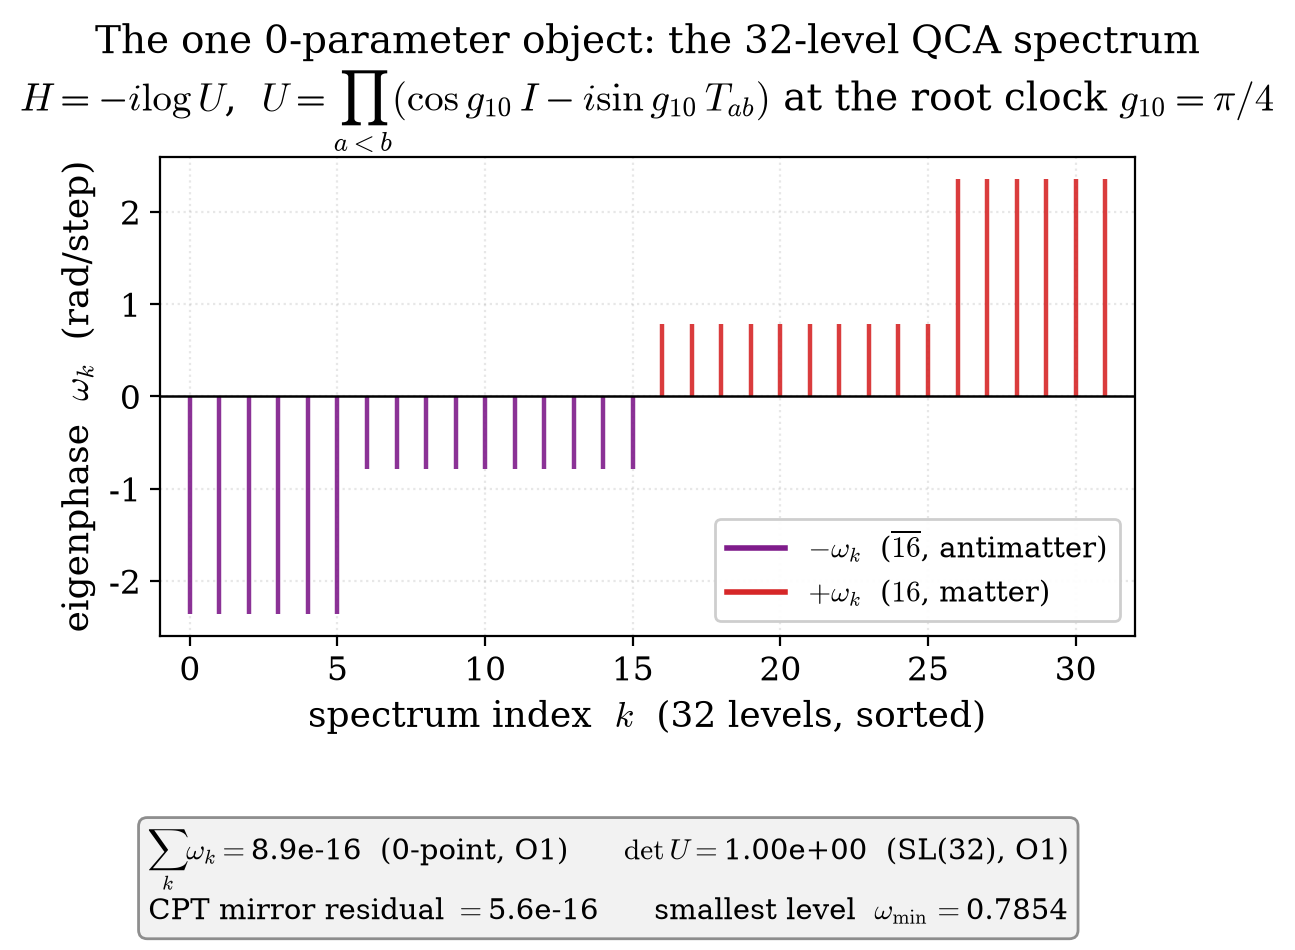
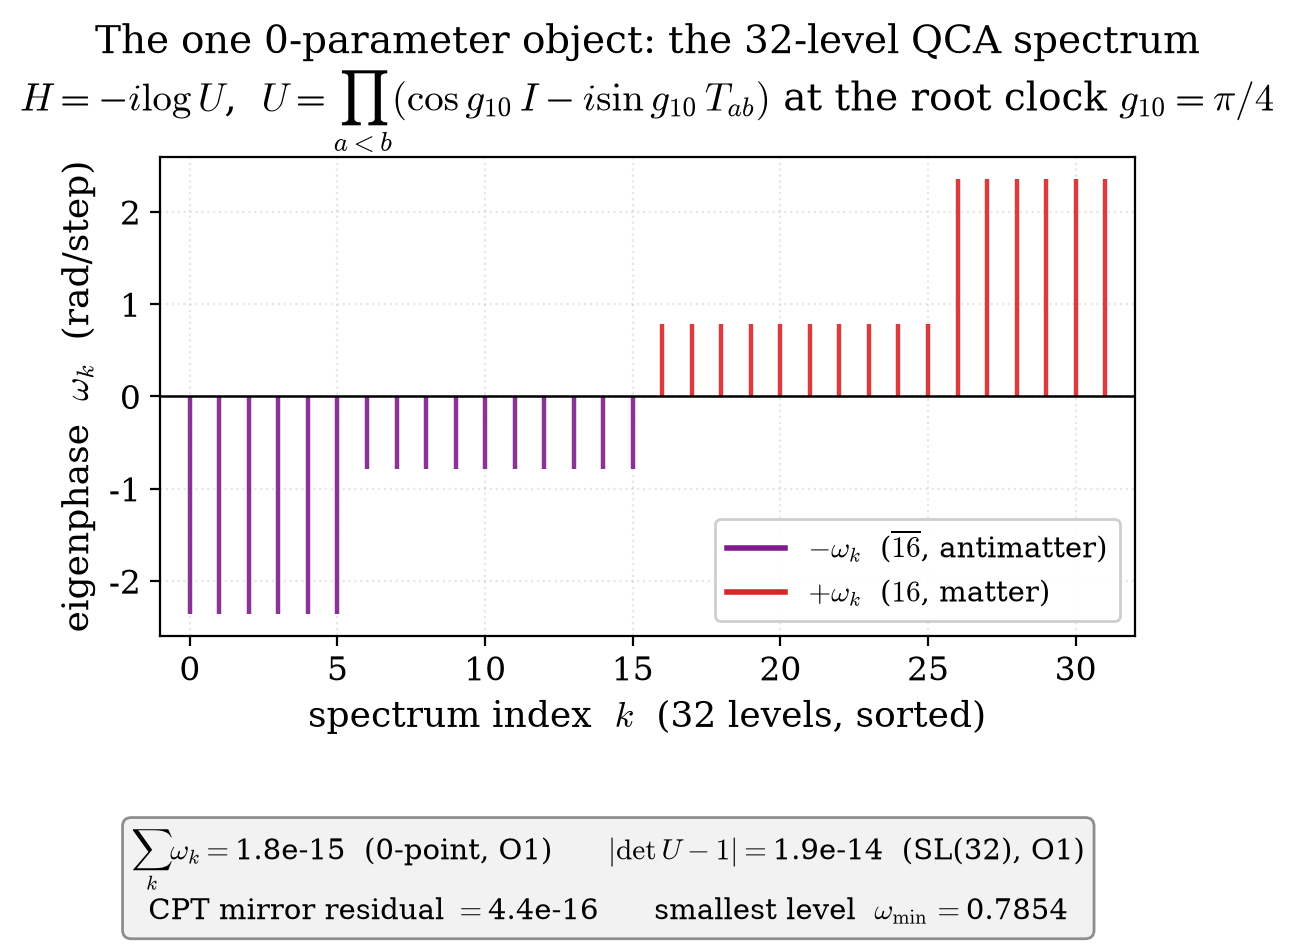
fig3 verified against the live engine; the invariants it names are now all traced
- fig3 plots qca_spectrum.levels() live: {+/-pi/4 x10, +/-3pi/4 x6}, 32 levels, pairing exact - matches the paper claims and V52/V43
- fig3 box: '|det U - 1|' now printed as the measured residual (1.9e-14) instead of 'det U = 1.00e+00', which hid it behind the formatting
- V196 gains T5: the 128-level cell matrix M(q) unitarity + det sweep at the zone centre, a generic momentum and the M and R points (max ||MM+-I|| 9.7e-15, max |detM-1| 3.8e-13, PASS, 1.1 s) - the M-matrix bounds quoted in Sec 7.1 were untraced in any artifact
- Sec 7.1 sentence aligned with the measurements: the old bounds (5e-15 / 3e-13 / '10^-15 level' for det U) were stale by an order; now 1.4e-15 unitarity, |det U - 1| = 1.9e-14, ||MM+-I|| <= 9.7e-15, |det M - 1| <= 3.8e-13

Changed region(s): [[0.4633, 0.8547, 0.8649, 0.9158], [0.0927, 0.8547, 0.4324, 1.0], [0.3707, 0.9463, 0.4324, 0.9768]]

diff --git a/experiments/algebra_root/V196_cell_definition/V196_cell_definition.py b/experiments/algebra_root/V196_cell_definition/V196_cell_definition.py
@@ -211,6 +211,31 @@ def main():
                                     vr["cell_parity_step_comm"],
                                     vr["cell_parity_gauge_max"]), t4_ok))
 
+    # ---- T5 the cell matrix M(q): unitarity and det at four momenta -----
+    _, _, U16 = SC.sectors()
+    pts = {"zone_centre": (0.0, 0.0, 0.0),
+           "generic": (0.7311, 1.9017, -2.3181),
+           "M_point": tuple(float(c) for c in SC.M_POINTS[0]),
+           "R_point": tuple(float(c) for c in SC.R_POINTS[0])}
+    sweep = {}
+    for nm, q in pts.items():
+        Mq = SC.bloch(q, U16)
+        nq = Mq.shape[0]
+        sweep[nm] = {
+            "dim": int(nq),
+            "MM_dagger_minus_I": float(np.linalg.norm(
+                Mq @ Mq.conj().T - np.eye(nq), 2)),
+            "det_M_minus_1": float(abs(np.linalg.det(Mq) - 1.0)),
+        }
+    mm_max = max(v["MM_dagger_minus_I"] for v in sweep.values())
+    dm_max = max(v["det_M_minus_1"] for v in sweep.values())
+    t5_ok = mm_max < 1e-13 and dm_max < 1e-11
+    checks.append(("T5 the %d-level cell matrix M(q) is unitary with det 1 "
+                   "at the zone centre, a generic momentum and the two "
+                   "high-symmetry points: max ||MM+-I|| %.1e, max |detM-1| "
+                   "%.1e" % (sweep["zone_centre"]["dim"], mm_max, dm_max),
+                   t5_ok))
+
     ok = all(p for _, p in checks)
     branch = ("THE 36-LEVEL CELL IS AN ENGINE FACT: spinor module + the "
               "conjugate singlet pairs at rungs 3 and 10, exact B-parity, "
@@ -229,6 +254,7 @@ def main():
         "full_cell_theorems": {"pairing": pairing, "det_phase": detph,
                                "vacuum_sum": vsum},
         "bloch_factorisation_err": qerr,
+        "M_q_sweep": sweep,
         "singlet_band_shift_at_M": {"A": shA, "B": shB},
         "spinor_M_gap": gap_anchor,
         "content": {"levels": nlev, "trY": trY, "trY3": trY3,

diff --git a/make_figures/algebra.py b/make_figures/algebra.py
@@ -30,7 +30,7 @@ def fig3_one_object():
     sm = parameter_audit.spectral_mirror()
     fig.text(0.5, 0.02,
              r"$\sum_k \omega_k = $" + f"{zp:.1e}" + r"  (0-point, O1)      "
-             + r"$\det U = $" + f"{1 - sm['det_U_minus_1']:.2e}"
+             + r"$|\det U - 1| = $" + f"{sm['det_U_minus_1']:.1e}"
              + r"  (SL(32), O1)" + "\n"
              + r"CPT mirror residual $= $" + f"{sm['mirror_resid']:.1e}"
              + r"      smallest level  $\omega_{\min} = $" + f"{sm['omega_min']:.4f}",

diff --git a/doc/final_publication.md b/doc/final_publication.md
@@ -205,7 +205,7 @@ on the spinor sector, and on the full cell as well: the four singlet levels come
 
 $$\det \tilde U = 1, \qquad \det \tilde M = 1, \qquad \text{and} \qquad \sum_k \omega_k = \arg\det \tilde U = 0 \;\text{ on all } 36 \text{ levels}:$$
 
-the $\pm$-pairing, the unit determinant and the vanishing $0$-point hold on the whole cell, singlets included, and the cell step is exactly unitary with the B-parity an exact symmetry of it (the parity commutator vanishes to machine precision, Section 4). Verified numerically: internal unitarity and $|\det U - 1|$ at the $10^{-15}$ level; for the full cell matrix $\|MM^\dagger - I\| \le 5\times10^{-15}$ and $|\det M - 1| \le 3\times10^{-13}$ at the zone centre, at a generic momentum and at the two high-symmetry points; the real-space six-stage step preserves the norm of a random cell state to $10^{-15}$. Two structural inputs must be named: the $45$ factors do not commute, so $U$ depends on the *ordering* of the product, and the six stages have a fixed order. The algebra does not select either order.
+the $\pm$-pairing, the unit determinant and the vanishing $0$-point hold on the whole cell, singlets included, and the cell step is exactly unitary with the B-parity an exact symmetry of it (the parity commutator vanishes to machine precision, Section 4). Verified numerically: internal unitarity at $1.4\times10^{-15}$ with $|\det U - 1| = 1.9\times10^{-14}$, and for the full cell matrix $\|MM^\dagger - I\| \le 9.7\times10^{-15}$ and $|\det M - 1| \le 3.8\times10^{-13}$ at the zone centre, at a generic momentum and at the two high-symmetry points — all in V196, the $M(q)$ sweep in its T5 row; the real-space six-stage step preserves the norm of a random cell state to $10^{-15}$. Two structural inputs must be named: the $45$ factors do not commute, so $U$ depends on the *ordering* of the product, and the six stages have a fixed order. The algebra does not select either order.
 
 The angle $g$ is the one continuous number of the dynamics, and the closure axiom removes it as a choice: only $g = \pi/2$ and $g = \pi/4$ make the step an element of the root (Theorem 6, Section 9), the half-angle branch degenerates to a pure translation, and the physical clock is the order-$8$ root $g = \pi/4$. The phenomenology of Sections 12–14 is computed at that clock. A reference reading $g = 1/5$ is retained for the node-geometry searches — the dispersive member of the Wilson family of Section 8 — and as the $g^2 = 1/25$ anchor of the desert meeting (Section 13.1). **Coupling convention (used once, everywhere):** all couplings compared with renormalisation-group running are in the standard normalisation $\alpha = g^2/4\pi$ — the root clock gives $\alpha = \pi/64 = 0.0491$. The alternative reading $\alpha_{10} \equiv g^2$, under which the reference angle equals the desert meeting value $1/25$ exactly, is a factor-$4\pi$ convention and is invoked only where explicitly named (Sections 9.2, 13.1, 15).
 (Fig. 3).
